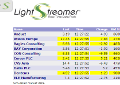
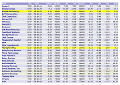
Refactoring for JMS Extender

diff --git a/index.html b/index.html
@@ -25,8 +25,9 @@
   <meta http-equiv="Content-Type" content="text/html; charset=iso-8859-1" />
   <title>Lightstreamer :: JMS Stock-List Demo</title>
   <link rel="stylesheet" type="text/css" href="css/table.css" />
-  <script src="http://demos.lightstreamer.com/commons/require.js"></script>
-  <script src="http://demos.lightstreamer.com/commons/lightstreamer.js"></script>
+  <script src="http://cdnjs.cloudflare.com/ajax/libs/require.js/2.1.9/require.min.js"></script>
+  <script src="https://code.jquery.com/jquery-2.1.1.min.js"></script>
+  <script src="http://demos.lightstreamer.com/commons/lightstreamer-widgets.js"></script>
   <script src="lightstreamer-jms.js"></script>
 </head>
 
@@ -73,39 +74,39 @@
         <td><div data-source="lightstreamer" data-field="ref_price">-</div></td>
         <td><div data-source="lightstreamer" data-field="open_price">-</div></td>
       </tr>
-      
+
     </table>
     <div class="disc">Simulated market data.</div>
 
   <!-- Application code -->
   <script type="text/javascript">
     require(["TopicConnectionFactory", "./grid", "StatusWidget"], function(TopicConnectionFactory, grid, StatusWidget) {
-      TopicConnectionFactory.createTopicConnection("http://localhost:8080/", "JMS", "HornetQ", null, null, {
+      TopicConnectionFactory.createTopicConnection("http://localhost:8080/", "HornetQ", null, null, {
         onConnectionCreated: function(conn) {
           // Connection succeeded, topic subscription
           var topicSession= conn.createSession(false, "PRE_ACK");
           var topic= topicSession.createTopic("stocksTopic");
           var consumer= topicSession.createConsumer(topic, null);
-  
-          
+
+
           // Add listener to message consumer
           consumer.setMessageListener({
             onMessage: function(message) {
-  
+
               // Message received
               var feedMessage= message.getObject();
               if (!feedMessage.currentValues) {
                 return;
               }
-  
+
               var key= feedMessage.itemName;
               var values= feedMessage.currentValues;
-  
+
               // Update the view with the received data
               grid.updateRow(key, values);
             }
           });
-  
+
           // Start the connection
           conn.start();
 
@@ -114,10 +115,10 @@
 
           // Connection failed, show the error
           alert("Error: " + errorCode + " " + errorMessage);
-  
-        }, 
+
+        },
         onLSClient: function(lsClient) {
-  
+
           // Enable connection sharing and status widget (optional)
           lsClient.connectionSharing.enableSharing("JMSDemoCommonConnection", "ATTACH", "CREATE");
           lsClient.addListener(new StatusWidget("left", "0px", true));

diff --git a/README.md b/README.md
@@ -1,14 +1,14 @@
-# Lightstreamer JMS Gateway - Basic Stock-List Demo - HTML Client
+# Lightstreamer JMS Extender - Basic Stock-List Demo - HTML Client
 
 <!-- START DESCRIPTION lightstreamer-jms-example-stocklist-client-javascript -->
 
-This project includes a front-end example for Lightstreamer JMS gateway.
+This project includes a front-end example based on the Basic Stock-List Demo for Lightstreamer JMS Extender.
 
 ## Details
 
-This demo displays real-time market data for ten stocks, generated by a feed simulator.
+This demo displays real-time market data for 20 stocks, generated by a feed simulator.
 
-This page uses the <b>JMS JS Client API for Lightstreamer</b> on top of [JavaScript Client API for Lightstreamer](http://www.lightstreamer.com/docs/client_javascript_uni_api/index.html) to handle the communications with Lightstreamer Server.
+This page uses the <b>Lightstreamer JMS Extender JavaScript Client API</b> to handle the communications with JMS Extender.
 
 Check out the sources for further explanations.
 
@@ -20,36 +20,38 @@ Check out the sources for further explanations.
 
 Before you can run the demo of this project, some dependencies need to be solved:
 
-* Note that, as prerequisite, the [Lightstreamer JMS Gateway - Stock-List Demo - Java (JMS) Service](https://github.com/Lightstreamer/Lightstreamer-JMS-example-StockList-service-java) has to be deployed on your local Lightstreamer Server instance. Please check out that project and follow the installation instructions provided with it.
-* Launch Lightstreamer Server.
-* Get the `lightstreamer-jms.js` file from the [Lightstreamer JMS Gateway](http://download.lightstreamer.com/#jms) and put it in the root folder of this project.
-* Lightstreamer JS client is currently hot-linked in the html page: you may want to replace it with a local version and/or to upgrade its version.
+* Note that, as prerequisite, the [Lightstreamer JMS Extender - Stock-List Demo - Java (JMS) Service](https://github.com/Lightstreamer/Lightstreamer-JMS-example-StockList-service-java) has to be deployed on your local Lightstreamer JMS Extender instance. Please check out that project and follow the installation instructions provided with it.
+* Launch Lightstreamer JMS Extender.
+* Get the `lightstreamer-jms.js` file from the [Lightstreamer JMS Extender](http://download.lightstreamer.com/#jms) and put it in the root folder of this project.
+* [Lightstreamer visual widgets](https://github.com/Lightstreamer/Lightstreamer-lib-client-widgets-javascript), such as the status widget and dynagrid, are hot-linked in the html page: they are in no way mandatory and you may replace them with widgets from any other library by modifying `grid.js` and the `onLSClient` event in `index.html`.
 * RequireJS is currently hot-linked in the html page: you may want to replace it with a local version and/or to upgrade its version.
 
-Now, you need to configure the `index.html` of this example by specifying the name of the data adapter you are going to use. By default, the demo will look for the <b>HornetQ</b> data adapter, please refer to the related [Service project](https://github.com/Lightstreamer/Lightstreamer-JMS-example-StockList-service-java) for more details on the choice of a JMS broker to be used.
-To set the data adapter name and the connection name, look where the connection is created:
+Now, you need to configure the `index.html` of this example by specifying the name of the JMS connector you are going to use. By default, the demo will look for the <b>HornetQ</b> JMS connector, please refer to the related [Service project](https://github.com/Lightstreamer/Lightstreamer-JMS-example-StockList-service-java) for more details on the choice of a JMS broker to be used.
+To set the JMS connector name and the connection name, look where the connection is created:
 
 ```js
-  TopicConnectionFactory.createTopicConnection("http://localhost:8080/", "JMS", "HornetQ", null, null, {
+  TopicConnectionFactory.createTopicConnection("http://localhost:8080/", "HornetQ", null, null, {
 ```
 
-To access the demo from a web browser, copy it somewhere under your root webserver directory. You can also add it to the standard Lightstreamer demo pages under `LightstreamerHome/pages/demos` directory and access it as: <i>http://_your_lightstreamer_http_address_/demos/StockListDemo_JMS/</i>.
+To access the demo from a web browser, copy it somewhere under your root webserver directory. You can also add it to the JMS Extender internal web server pages under `JMSExtenderHome/pages` directory by copying it there with a folder name such as `StockListDemo_JMS`. Subsequently you may access it as: <i>http://_your_jms_extender_http_address_/StockListDemo_JMS/</i>.
+Depending on the browser in use, and on the security settings, you might also be able to launch the index.html file directly from the file system.
+
 
 ## See Also
 
 ### Lightstreamer Service Needed by This Demo Client
 
 <!-- START RELATED_ENTRIES -->
-* [Lightstreamer JMS Gateway - Stock-List Demo - Java (JMS) Service](https://github.com/Lightstreamer/Lightstreamer-JMS-example-StockList-service-java)
+* [Lightstreamer JMS Extender - Stock-List Demo - Java (JMS) Service](https://github.com/Lightstreamer/Lightstreamer-JMS-example-StockList-service-java)
 
 <!-- END RELATED_ENTRIES -->
 ### Related Projects
 
-* [Lightstreamer JMS Gateway - Basic Chat Demo - HTML Client](https://github.com/Lightstreamer/Lightstreamer-JMS-example-Chat-client-javascript)
-* [Lightstreamer JMS Gateway - Basic Portfolio Demo - HTML Client](https://github.com/Lightstreamer/Lightstreamer-JMS-example-Portfolio-client-javascript)
+* [Lightstreamer JMS Extender - Basic Chat Demo - HTML Client](https://github.com/Lightstreamer/Lightstreamer-JMS-example-Chat-client-javascript)
+* [Lightstreamer JMS Extender - Basic Portfolio Demo - HTML Client](https://github.com/Lightstreamer/Lightstreamer-JMS-example-Portfolio-client-javascript)
 * [Lightstreamer - Stock-List Demos - HTML Clients](https://github.com/Lightstreamer/Lightstreamer-example-StockList-client-javascript)
 
 ## Lightstreamer Compatibility Notes
 
-* Compatible with Lightstreamer JavaScript Client library version 6.1 or newer.
-* Compatible with Lightstreamer JMS Gateway Adapter since version 1.1 or newer.
+* Compatible with Lightstreamer JMS Extender JavaScript Client library since version 1.2 or newer.
+* Compatible with Lightstreamer JMS Extender since version 1.5 or newer.
